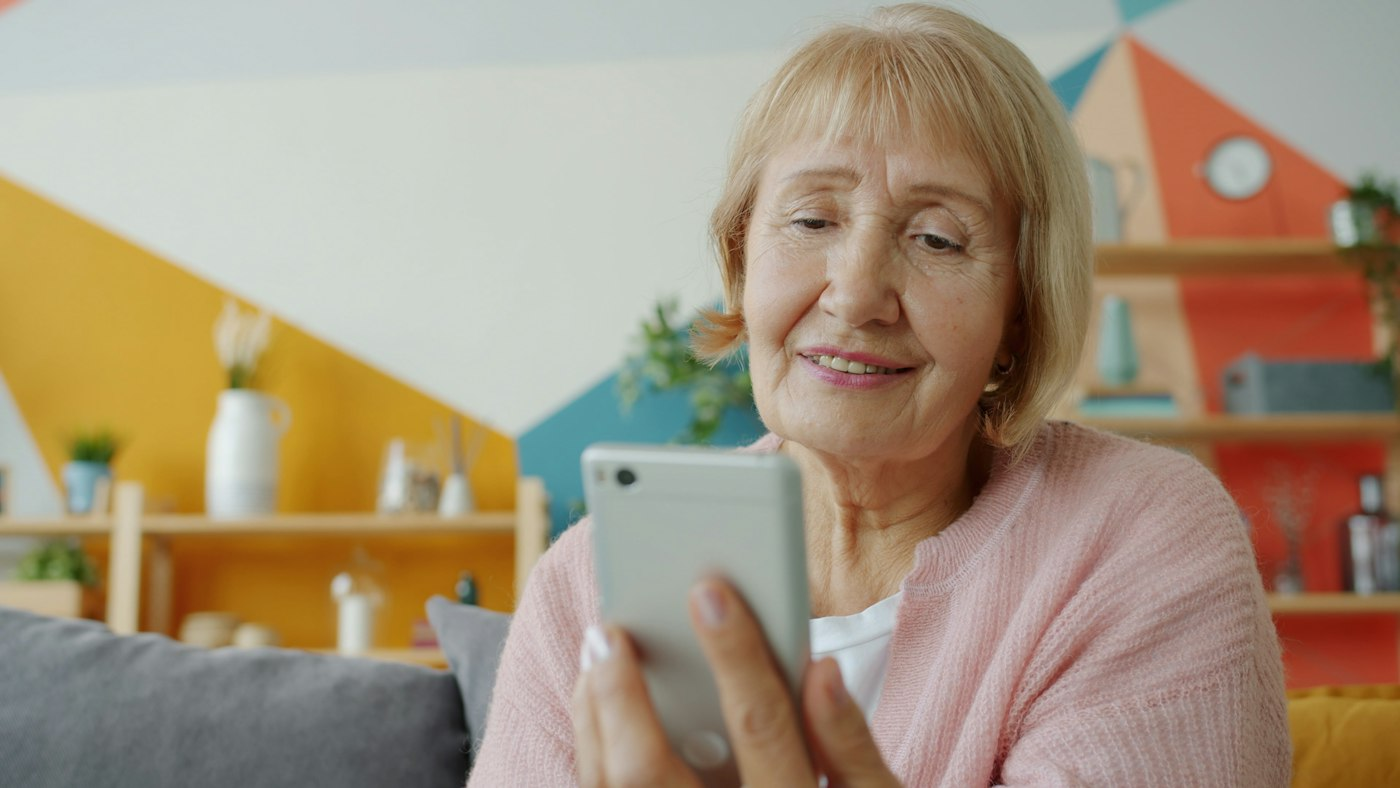
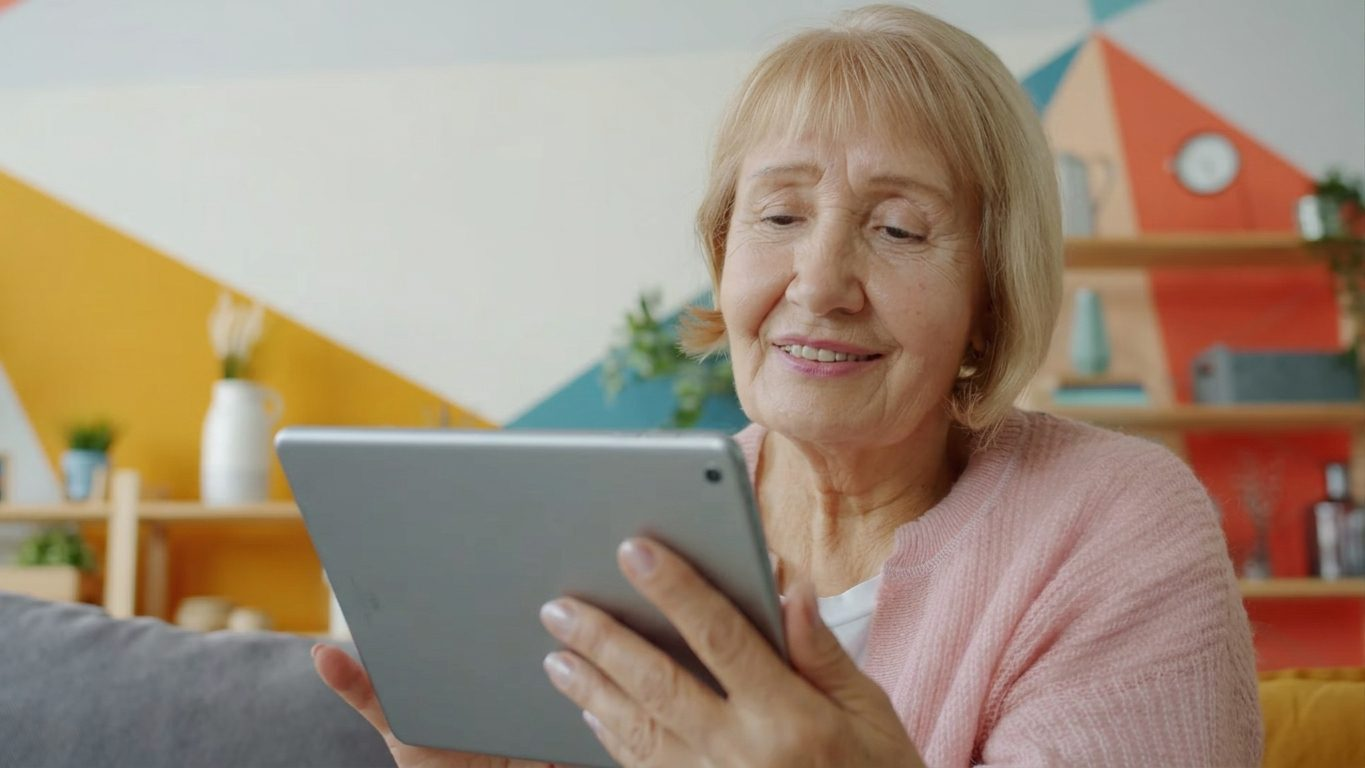
Site vitrine : photo du hero avec une tablette (montage de Tanguy)
Claude-Session: https://claude.ai/code/session_013oi6NNvd8XpB2CLq5ipRzQ

diff --git a/vitrine/index.html b/vitrine/index.html
@@ -95,8 +95,7 @@ section { padding-block: clamp(3.5rem, 8vw, 6rem); }
 .hero-note { font-size: 1rem; color: var(--muted); }
 @media (max-width: 900px) { .hero .wrap { grid-template-columns: minmax(0, 1fr); } }
 .hero-photo { position: relative; margin: 0; min-width: 0; }
-.hero-photo img { display: block; width: 100%; height: auto; aspect-ratio: 4 / 5; object-fit: cover; object-position: 74% 30%; background: var(--band); }
-@media (max-width: 900px) { .hero-photo img { aspect-ratio: 4 / 3; } }
+.hero-photo img { display: block; width: 100%; height: auto; aspect-ratio: 4 / 3; object-fit: cover; object-position: 60% 30%; background: var(--band); }
 .hero-card { position: absolute; left: clamp(-1.5rem, -2vw, 0rem); bottom: 1.5rem; max-width: 19rem; background: var(--surface); border-radius: 16px; padding: .9rem 1.1rem; box-shadow: 0 18px 40px -18px rgba(36, 33, 47, .45); display: grid; grid-template-columns: 2.4rem minmax(0, 1fr); gap: .75rem; align-items: center; font-size: 1rem; line-height: 1.35; }
 .hero-card .ic { width: 2.4rem; height: 2.4rem; border-radius: 50%; background: var(--warm-soft); color: var(--warm); display: grid; place-items: center; }
 .hero-card .ic svg { width: 1.2rem; height: 1.2rem; }
@@ -246,7 +245,7 @@ footer a { color: var(--muted); }
       </div>
 
       <figure class="hero-photo">
-        <img src="mamie.jpg" alt="Une grand-mère souriante" width="1400" height="788" fetchpriority="high">
+        <img src="mamie.jpg" alt="Une grand-mère sourit en regardant sa tablette" width="1365" height="768" fetchpriority="high">
         <div class="hero-card" aria-hidden="true">
           <span class="ic"><svg><use href="#i-heart"/></svg></span>
           <p>Léo a fait ses premiers pas !<small>Julie · il y a 2 minutes</small></p>
